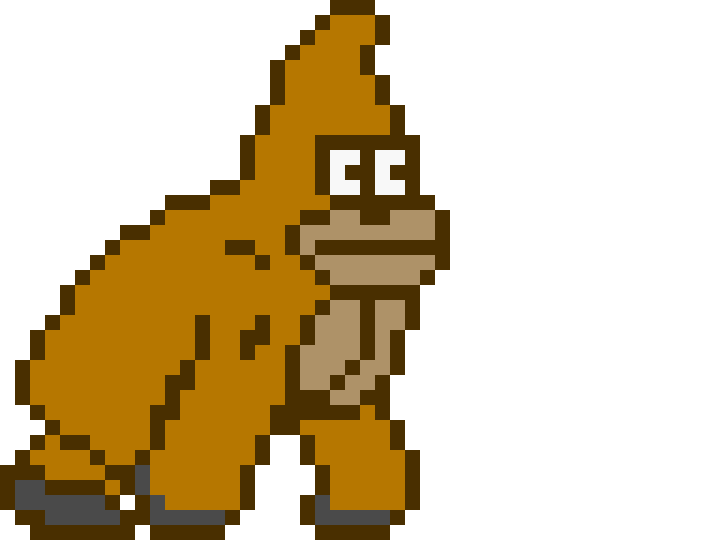
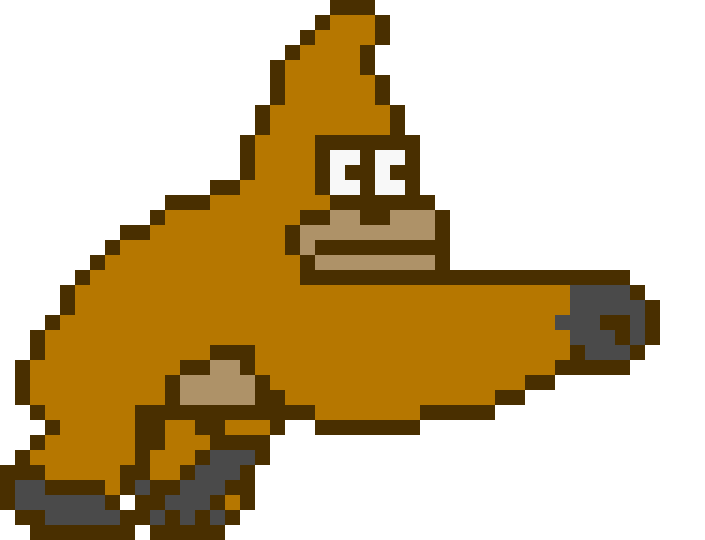
Add gorilla punch feature

Changed region(s): [[0.0624, 0.4741, 0.9362, 1.0], [0.3121, 0.4444, 0.4057, 0.5037], [0.1872, 0.7407, 0.2184, 0.8296]]

diff --git a/Gorilla.java b/Gorilla.java
@@ -1,81 +1,126 @@
-import greenfoot.*;  // (World, Actor, GreenfootImage, Greenfoot and MouseInfo)
+import greenfoot.*; 
+
+//This is our hero that the player plays
 
 public class Gorilla extends Actor
 {
-    GreenfootImage[] idleRight = new GreenfootImage[3];
-    GreenfootImage[] idleLeft = new GreenfootImage[3];
+    GreenfootImage[] walkRight = new GreenfootImage[3];
+    GreenfootImage[] walkLeft = new GreenfootImage[3];
+    GreenfootImage[] punchRight = new GreenfootImage[3];
+    GreenfootImage[] punchLeft = new GreenfootImage[3];
 
-    // Direction the gorilla is facing
     String facing = "right";
     SimpleTimer animationTimer = new SimpleTimer();
-
+    boolean punching = false;
+    boolean spacePressedLastFrame = false;
     int imageIndex = 0;
     int speed = 4;
 
     public Gorilla() {
         for (int i = 0; i < 3; i++) {
-            idleRight[i] = new GreenfootImage("Gorilla_Walk" + i + ".png");
-            idleRight[i].scale(80, 80);
-        }
+            walkRight[i] = new GreenfootImage("Gorilla_Walk" + i + ".png");
+            walkRight[i].scale(80, 80);
 
-        for (int i = 0; i < idleLeft.length; i++) {
-            idleLeft[i] = new GreenfootImage("Gorilla_Walk" + i + ".png");
-            idleLeft[i].mirrorHorizontally();
-            idleLeft[i].scale(80, 80);
+            walkLeft[i] = new GreenfootImage("Gorilla_Walk" + i + ".png");
+            walkLeft[i].mirrorHorizontally();
+            walkLeft[i].scale(80, 80);
+
+            punchRight[i] = new GreenfootImage("Gorilla_Punch" + i + ".png");
+            punchRight[i].scale(1105, 80);
+
+            punchLeft[i] = new GreenfootImage("Gorilla_Punch" + i + ".png");
+            punchLeft[i].mirrorHorizontally();
+            punchLeft[i].scale(110, 80);
         }
 
         animationTimer.mark();
-        setImage(idleRight[0]);
+        setImage(walkRight[0]);
     }
 
     public void act() {
-        handleMovement();
+        checkPunchKey();
+        if (!punching) {
+            handleMovement();
+        }
         animateGorilla();
     }
 
+    public void checkPunchKey() {
+        boolean spaceDown = Greenfoot.isKeyDown("space");
+
+        // Punch cannot be started the last frame and start again
+        if (spaceDown && !spacePressedLastFrame && !punching) {
+            punching = true;
+            imageIndex = 0;
+            animationTimer.mark();
+        }
+
+        spacePressedLastFrame = spaceDown;
+    }
+
     public void animateGorilla() {
-        if (animationTimer.millisElapsed() < 100) {
+        //If punching have a longer delay
+        int delay = punching ? 200 : 100;
+        if (animationTimer.millisElapsed() < delay) {
             return;
         }
         animationTimer.mark();
-        if (facing.equals("right")) {
-            setImage(idleRight[imageIndex]);
+
+        if (punching) {
+            if (facing.equals("right")) {
+                setImage(punchRight[imageIndex]);
+            } else {
+                setImage(punchLeft[imageIndex]);
+            }
+
+            imageIndex++;
+            if (imageIndex >= punchRight.length) {
+                punching = false;
+                imageIndex = 0;
+
+                // Reset to idle frame
+                if (facing.equals("right")) {
+                    setImage(walkRight[0]);
+                } else {
+                    setImage(walkLeft[0]);
+                }
+            }
         } else {
-            setImage(idleLeft[imageIndex]);
+            if (Greenfoot.isKeyDown("left") || Greenfoot.isKeyDown("right") ||
+                Greenfoot.isKeyDown("up") || Greenfoot.isKeyDown("down")) {
+
+                if (facing.equals("right")) {
+                    setImage(walkRight[imageIndex]);
+                } else {
+                    setImage(walkLeft[imageIndex]);
+                }
+
+                imageIndex = (imageIndex + 1) % walkRight.length;
+            } else {
+                imageIndex = 0;
+                if (facing.equals("right")) {
+                    setImage(walkRight[0]);
+                } else {
+                    setImage(walkLeft[0]);
+                }
+            }
         }
-        imageIndex = (imageIndex + 1) % idleRight.length;
     }
 
     public void handleMovement() {
-        boolean moved = false;
-
         if (Greenfoot.isKeyDown("left")) {
             setLocation(getX() - speed, getY());
             facing = "left";
-            moved = true;
         }
         if (Greenfoot.isKeyDown("right")) {
             setLocation(getX() + speed, getY());
             facing = "right";
-            moved = true;
         }
         if (Greenfoot.isKeyDown("up")) {
             setLocation(getX(), getY() - speed);
-            moved = true;
         }
         if (Greenfoot.isKeyDown("down")) {
             setLocation(getX(), getY() + speed);
-            moved = true;
-        }
-
-        if (!moved) {
-            // Optional: pause animation if not moving
-            imageIndex = 0;
-            if (facing.equals("right")) {
-                setImage(idleRight[0]);
-            } else {
-                setImage(idleLeft[0]);
-            }
         }
     }
 }
